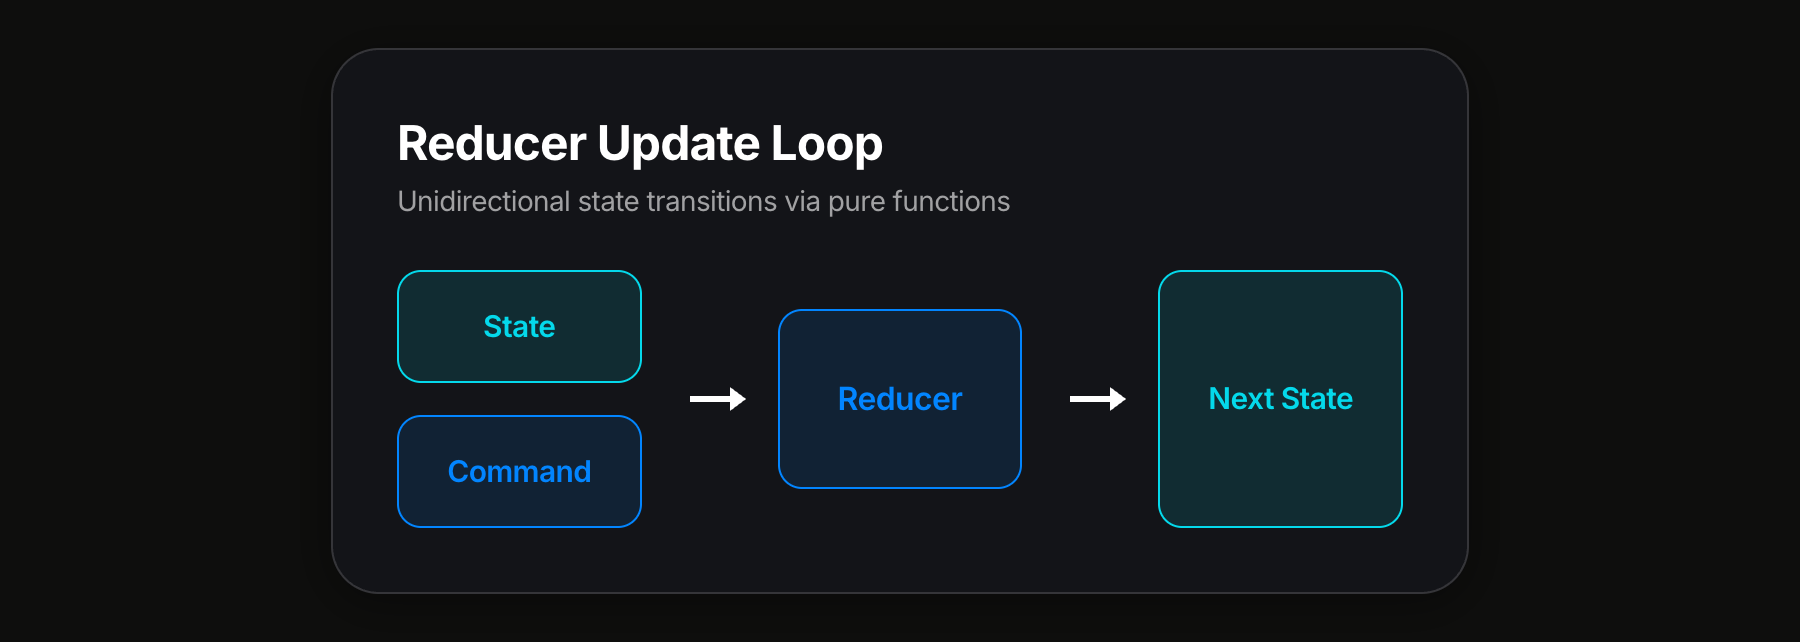
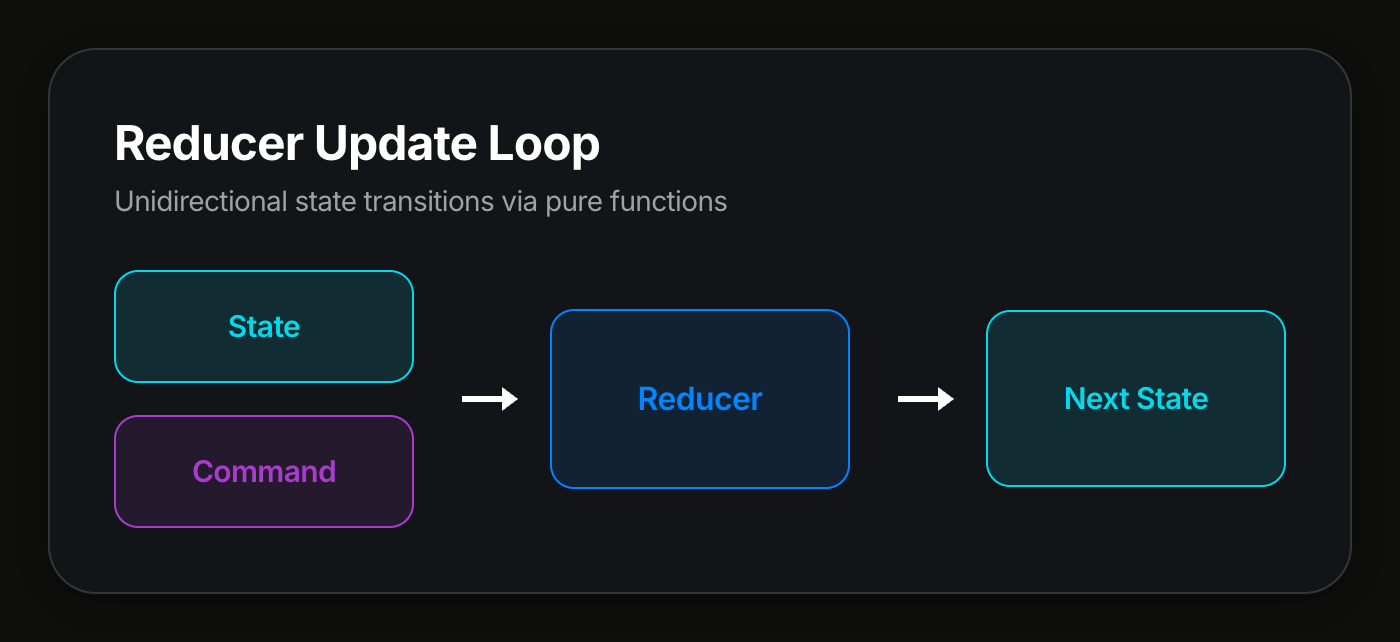
last up date to update loop and update memory

diff --git a/pages/reducer-update-loop.html b/pages/reducer-update-loop.html
@@ -10,11 +10,10 @@
   <link rel="stylesheet" href="../css/components.css">
   <style>
     .frame {
-      max-width: 900px;
+      max-width: 700px;
     }
     .card {
       height: auto;
-      width: auto;
     }
     .card-body {
       flex: none;
@@ -40,7 +39,8 @@
     }
     .box.accent-cyan  { border-color: var(--accent-cyan);   background: var(--accent-cyan-bg);   color: var(--accent-cyan); }
     .box.accent-blue  { border-color: var(--accent-blue);   background: var(--accent-blue-bg);   color: var(--accent-blue); }
-    .box.accent-green { border-color: var(--accent-green);  background: var(--accent-green-bg);  color: var(--accent-green); }
+    .box.accent-green  { border-color: var(--accent-green);  background: var(--accent-green-bg);  color: var(--accent-green); }
+    .box.accent-purple { border-color: var(--accent-purple); background: var(--accent-purple-bg); color: var(--accent-purple); }
 
     /* Stacked pair (State/Command on left, Next State/Events on right) */
     .stack {
@@ -96,7 +96,7 @@
           <!-- Inputs: State + Command stacked -->
           <div class="stack">
             <div class="box accent-cyan">State</div>
-            <div class="box accent-blue">Command</div>
+            <div class="box accent-purple">Command</div>
           </div>
 
           <div class="h-connector"></div>

diff --git a/CLAUDE.md b/CLAUDE.md
@@ -18,13 +18,50 @@ This repo is for generating images, using web styling, for a series of articles.
 3. Use Chrome MCP via Claude Code to capture screenshots:
    a. Navigate to the page URL, resize to the manifest viewport width
    b. Run `evaluate_script` to set `.frame` height to `fit-content` (shrinks to card)
-   c. Take a snapshot (`take_snapshot`) to find the `.frame` element uid
-   d. Use `take_screenshot` with the `.frame` uid to auto-crop to content
+   c. Take a `verbose` snapshot (`take_snapshot`) to find the `.frame` element uid
+   d. The `.frame` is always `uid=X_2` (body → frame → card maps to `X_0` → `X_1` → `X_2`, and `.frame` is `X_2`'s parent — use the second `ignored` node under `RootWebArea`)
+   e. Use `take_screenshot` with the `.frame` uid to auto-crop to content
 4. Output PNGs go to `output/`
 
 ## Adding a New Page
 
-1. Create `pages/{page-id}.html` using the base template (see existing examples)
+1. Create `pages/{page-id}.html` using the base template below
 2. Add entry to `manifest.json` (with custom viewport if needed)
 3. Add link card to `index.html` gallery
 4. Run screenshot pipeline to capture
+
+## Page Template Rules
+
+Every page **must** follow these rules so layout and screenshots are consistent:
+
+### Required page-level style overrides
+
+```css
+.frame {
+  max-width: 700px;   /* or whatever the manifest viewport width is */
+}
+.card {
+  height: auto;        /* let card shrink to content height */
+  /* Do NOT set width: auto — card must remain width: 100% to fill the frame */
+}
+.card-body {
+  flex: none;          /* prevent card-body from stretching */
+}
+```
+
+### Key points
+
+- **`.card` must keep `width: 100%`** (inherited from `components.css`). Setting `width: auto` causes the card to shrink-wrap its content, creating inconsistent horizontal padding between pages.
+- **`.frame` padding** is set globally in `components.css` at `var(--space-lg)` (24px). Do not override per-page.
+- **`.card` padding** is set globally at `var(--space-xl)` (32px). Do not override per-page.
+- The resulting content width for a 700px viewport is: `700 - 48 (frame) - 64 (card) = 588px`.
+
+### Color palette for diagram boxes
+
+Use the `.box` pattern with accent classes. Available accents:
+- `accent-cyan` — state / primary concept
+- `accent-blue` — reducer / processing
+- `accent-purple` — commands / inputs
+- `accent-green` — events / outputs
+
+Define `.box.accent-*` styles in each page's `<style>` block (they are not in `components.css`).
